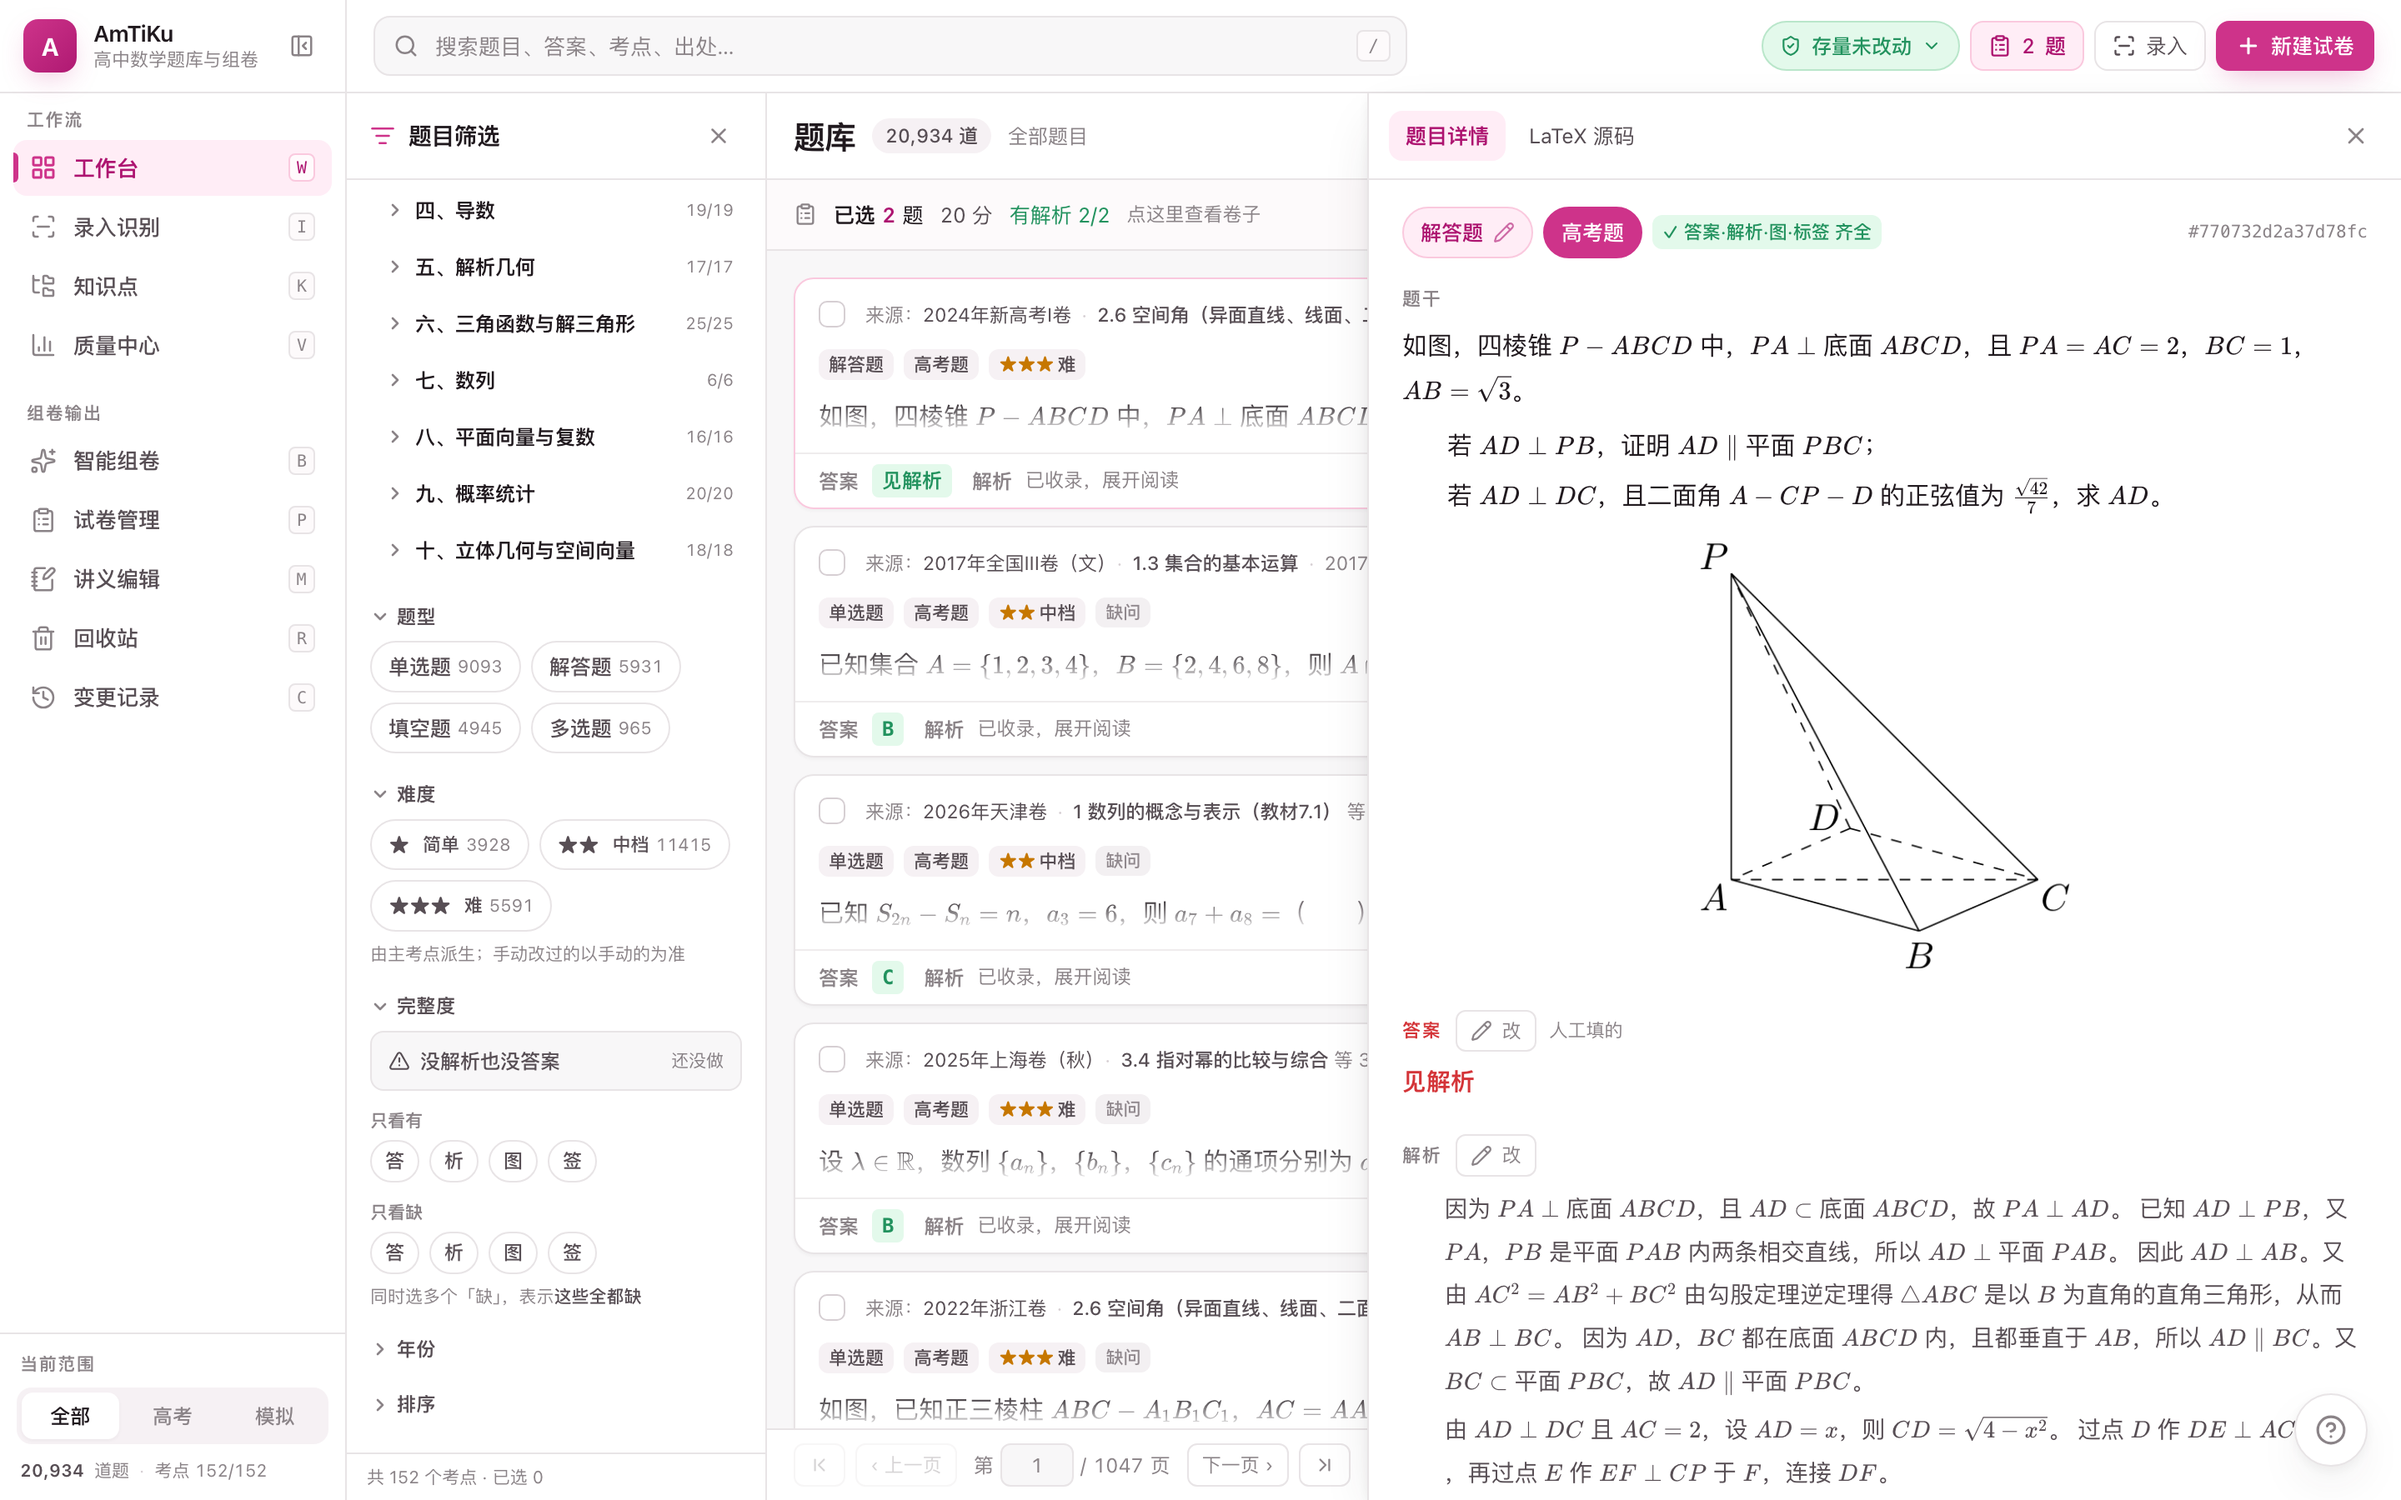
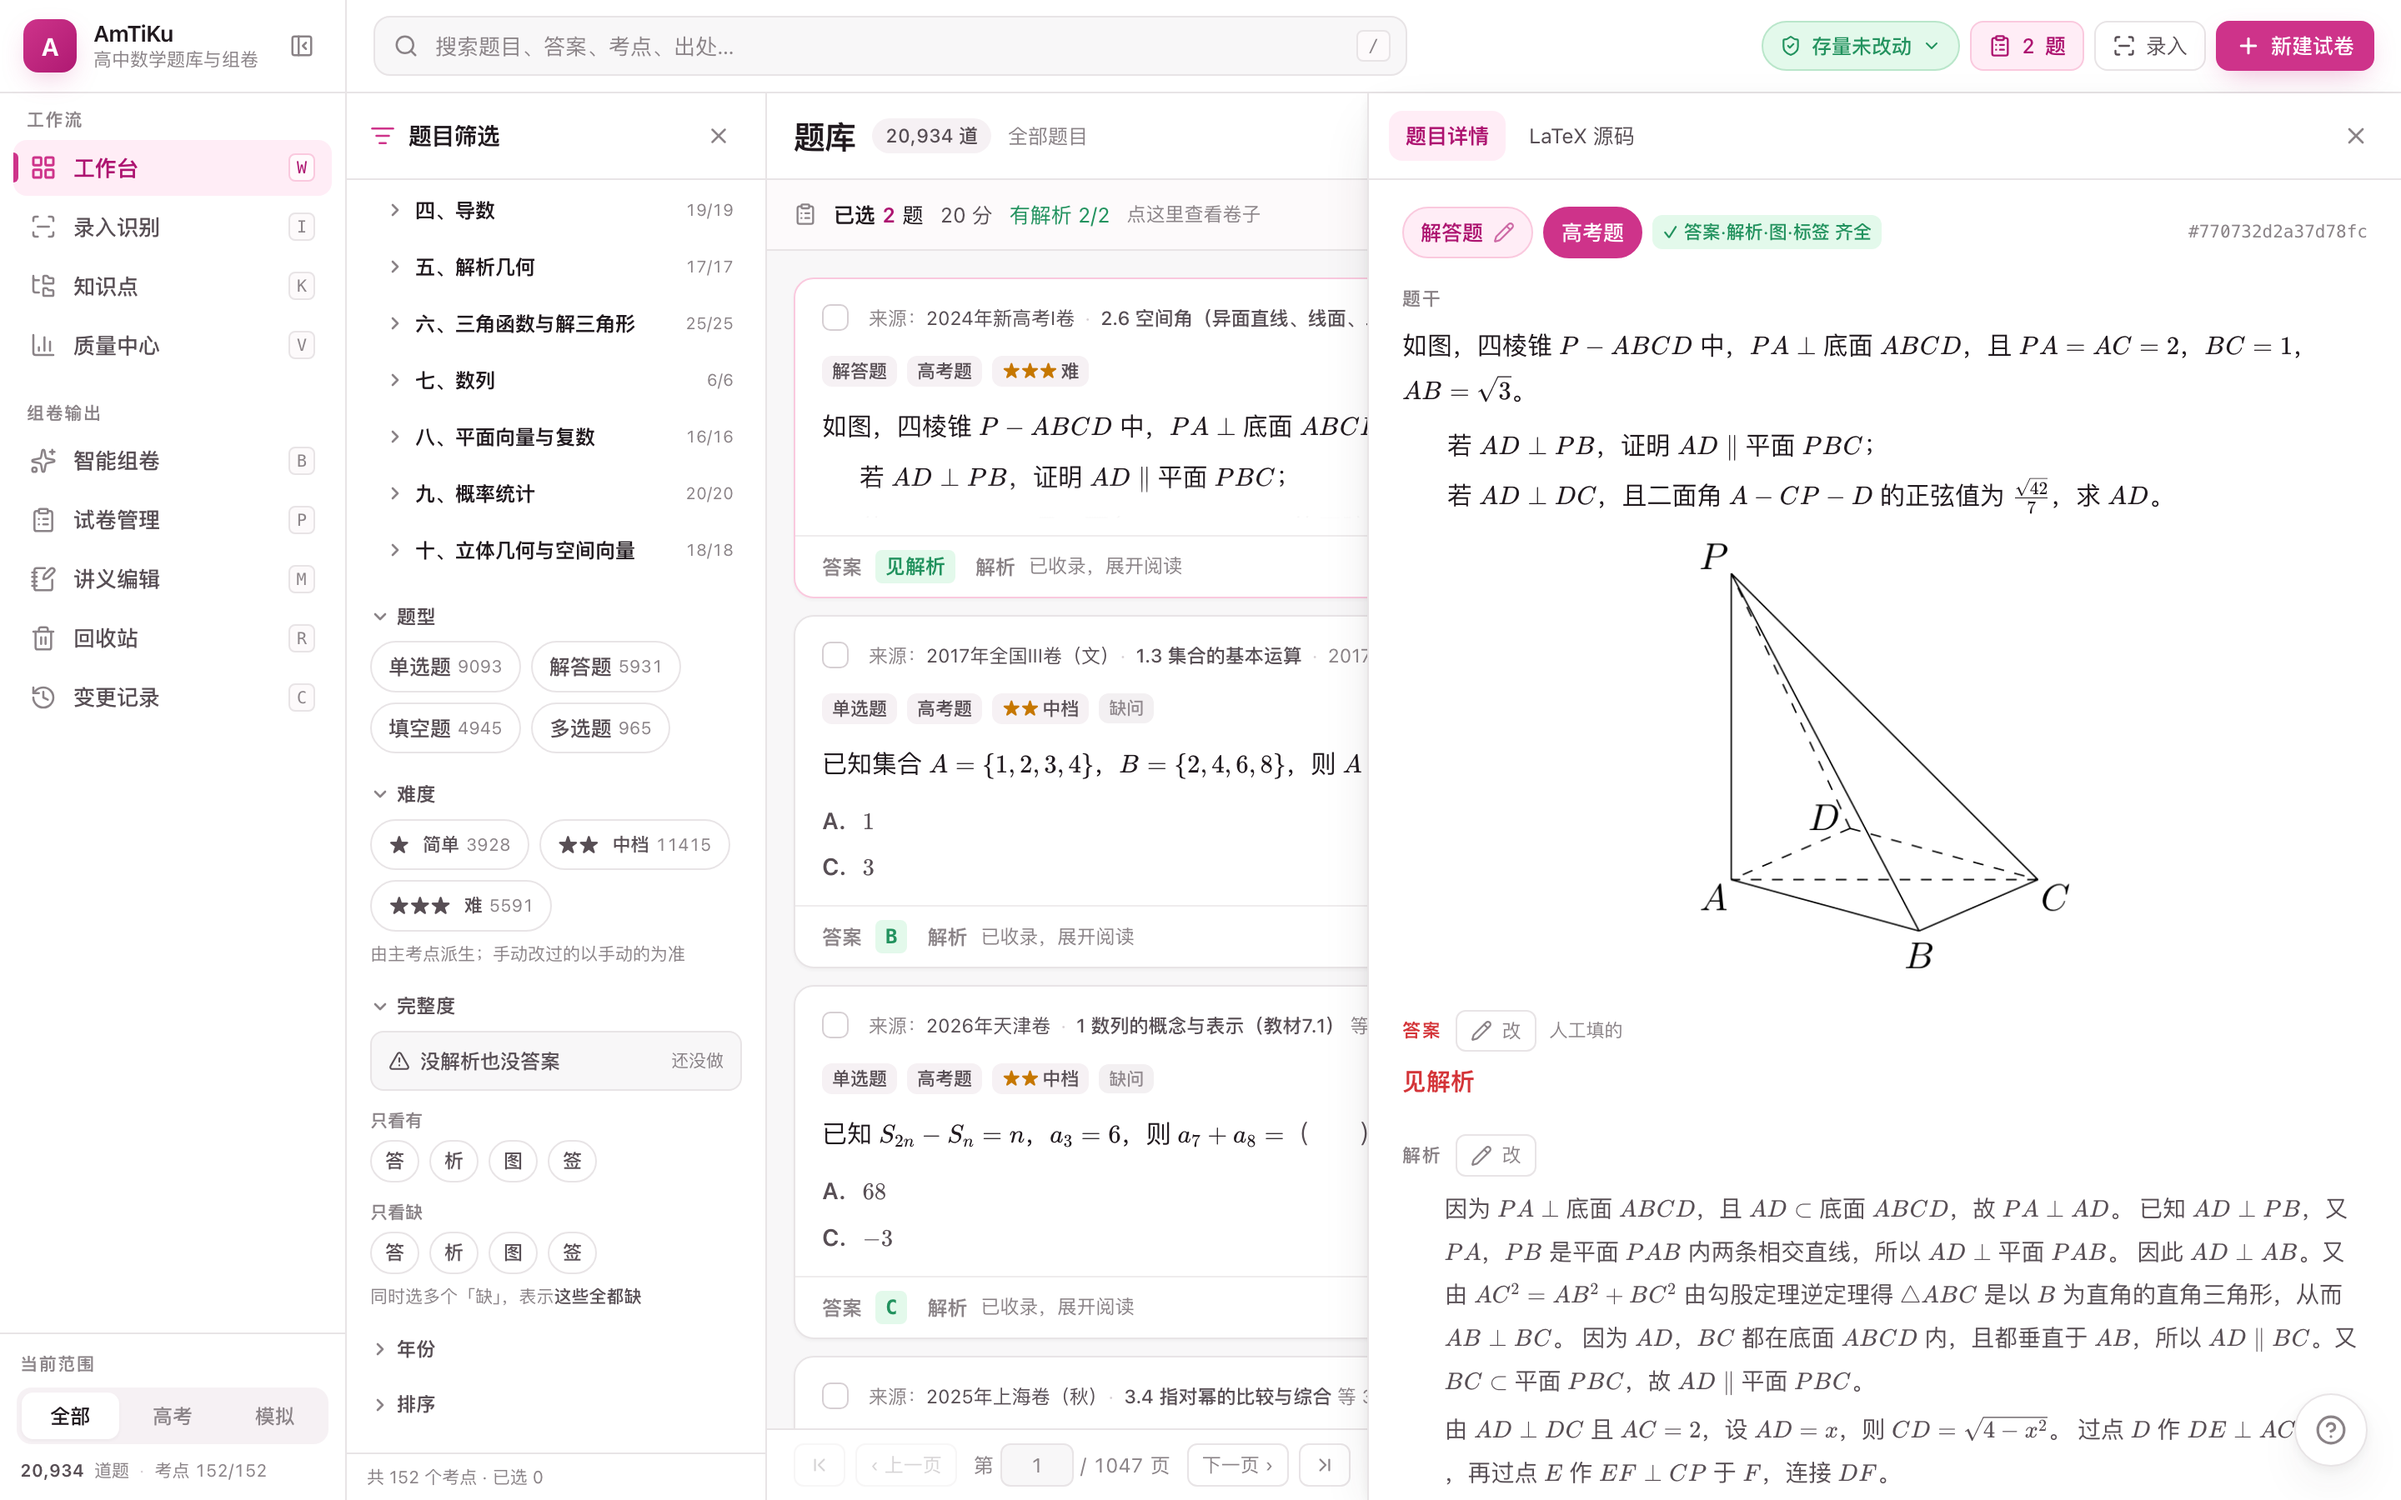
修：题干封顶的渐隐是无条件画的，短题干看着像自带一层渐变
用户截图指出「题目感觉有渐变」。

根因：.q-clamp::after 那条 22px 白色渐隐（用来提示"下面还有内容"）是
**无条件画**的。而 max-h-[4.6em] 在内容更短时盒子就等于内容高，于是那 22px
盖在唯一一行的文字上，看着就像题目自带渐变。是 bug，不是设计。

改法：渐隐只在真被截断时才画（.q-clamp[data-over='1']::after），
data-over 由 JS 量 scrollHeight > clientHeight 得出。

量的坑（注释里写清了）：**KaTeX 是挂载之后才把公式画进去的**，内容长高了
但盒子被 max-height 钉死，ResizeObserver 根本不响——实测漏过一条
（29 vs 26 该显示却没显示）。所以三件事都要听：ResizeObserver（宽度变了）、
MutationObserver（KaTeX 后渲染）、document.fonts.ready（字体到位行高再变）。

验证（无头 Chrome 逐张量 DOM，10 张卡）：
- 四棱锥 P-ABCD：69/591 截断 → data-over=1，::after opacity=1
- 已知集合 A={1,2,3,4}：27/27 未截断 → data-over=0，opacity=0
- 2025 上海卷（秋）：54/54 未截断 → data-over=0，opacity=0
- 三者（实际截断 / data-over / 透明度）逐张一致，无一张误画；紧凑密度下同样一致
- tsc + build 全绿；amti.py accept 四层全绿（快照内容变化 0）

顺手：README 截图脚本加了"截图前先清 localStorage"——密度/面板开合/抽屉宽度
都记在那儿，上次探测留下的 dense=1 会让截图悄悄变成紧凑卡片（这次踩了，重拍）。

Changed region(s): [[0.3438, 0.1867, 0.5625, 0.9644]]

diff --git a/web/src/app/QuestionCard.tsx b/web/src/app/QuestionCard.tsx
@@ -13,13 +13,45 @@
  *  ④ 折叠的答案与解析：不展开也看得见"答案 C / 有解析"，
  *     展开才去拉全量（答案与解析的块 IR 列表接口不带，见 server.py 的说明）
  */
-import { useEffect, useState } from 'react'
+import { useEffect, useRef, useState } from 'react'
 import { Plus, BookPlus, Check, ChevronDown, Flame, TriangleAlert, Loader2, Maximize2 } from 'lucide-react'
 import type { Q } from '@/lib/types'
 import { renderBlocks } from '@/lib/render'
 import { api, reportErr } from '@/lib/api'
 import { DIFF_STARS } from '@/lib/display'
 import { Flags } from '@/app/ui'
+
+/** 题干到底有没有被截断。
+ *
+ *  封顶高度的渐隐**不能无条件画**：一行就放得下的短题干也会被那 22px 盖住，
+ *  看起来就像"题目自带一层渐变"。所以要真的量一下 scrollHeight。
+ *  依赖里带 `q.key` / `dense`：题换了、密度换了都得重算
+ *  （ResizeObserver 只在盒子尺寸变时触发，而"被截断"恰恰是不变尺寸的那种）。 */
+function useClamped(deps: unknown[]) {
+  const ref = useRef<HTMLDivElement>(null)
+  const [over, setOver] = useState(false)
+  useEffect(() => {
+    const el = ref.current
+    if (!el) return
+    const check = () => setOver(el.scrollHeight > el.clientHeight + 2)
+    check()
+
+    // **三件都要听**，少一件就会漏：
+    //  · ResizeObserver —— 窗口/面板宽度变了
+    //  · MutationObserver —— KaTeX 是**挂载之后**才把公式画进去的，
+    //    内容长高了但盒子被 max-height 钉死，ResizeObserver 根本不会响
+    //    （实测漏掉过：量出来 29 vs 26 该显示渐隐，却没显示）
+    //  · fonts.ready —— 字体到位后行高会再变一次
+    const ro = new ResizeObserver(check)
+    ro.observe(el)
+    const mo = new MutationObserver(check)
+    mo.observe(el, { childList: true, subtree: true, characterData: true })
+    document.fonts?.ready.then(check).catch(() => {})
+    return () => { ro.disconnect(); mo.disconnect() }
+    // eslint-disable-next-line react-hooks/exhaustive-deps
+  }, deps)
+  return [ref, over] as const
+}
 
 /** 答案的**纯文字**预览。只认两种情况，其余一律让用户展开看：
  *  选择题的字母（`C` / `ABD`）、解答题的「见解析」。
@@ -67,6 +99,9 @@ export default function Card({
    * 勾选和看题是两件事，不该互斥。
    */
   const pick = () => { onOpen(); if (selectMode) onToggle() }
+
+  // 题干封顶后的渐隐只在**真截断**时才画（见 useClamped 的注释）
+  const [clampRef, clamped] = useClamped([q.key, dense])
 
   const ans = answerPreview(q.answer)
   const hasSol = !!q.flags['解析']
@@ -171,7 +206,8 @@ export default function Card({
       {/* ── ③ 题干 + 选项 ── */}
       <div className={`${dense ? 'px-3.5 pt-2' : 'px-4 pt-2.5'}`}>
         <div className="q-stem q-compact text-[14.5px] text-ink">
-          <div className={`q-clamp ${dense ? 'max-h-[1.7em]' : 'max-h-[4.6em]'}`}>
+          <div ref={clampRef} data-over={clamped ? '1' : '0'}
+            className={`q-clamp ${dense ? 'max-h-[1.7em]' : 'max-h-[4.6em]'}`}>
             {renderBlocks(q.blocks?.stem)}
           </div>
         </div>

diff --git a/web/src/index.css b/web/src/index.css
@@ -185,14 +185,21 @@ body {
 .latex-err { color: oklch(0.55 0.2 25); font-size: 12px; }
 
 /* 列表卡里的题目：**封顶高度 + 渐隐**。
-   题干长短差十倍，不封顶的话一屏只看得到两道题，
-   关键是封顶后要能看出"下面还有"，所以配一条白色渐隐。 */
+   题干长短差十倍，不封顶的话一屏只看得到两道题；
+   封顶之后要能看出"下面还有"，所以配一条白色渐隐。
+
+   **渐隐只在真被截断时才画**（`data-over="1"`，由 JS 量 scrollHeight 决定）：
+   无条件画的话，一行就放得下的短题干也会被这 22px 盖住最后一行，
+   看起来就像"题目自带一层渐变"——那是 bug，不是设计。 */
 .q-clamp { position: relative; overflow: hidden; }
 .q-clamp::after {
   content: ''; position: absolute; left: 0; right: 0; bottom: 0; height: 22px;
   background: linear-gradient(to bottom, transparent, var(--color-surface));
   pointer-events: none;
+  opacity: 0;                       /* 默认不画 */
+  transition: opacity 160ms var(--ease-soft);
 }
+.q-clamp[data-over='1']::after { opacity: 1; }
 
 /* ══ 动效 ══════════════════════════════════════════════════════════
    库里两万多道题，筛选、翻页、编译都是几百毫秒到几十秒的事。

diff --git a/CHANGELOG.md b/CHANGELOG.md
@@ -5,6 +5,39 @@
 
 ---
 
+## v1.6.5 · 修：题干封顶的渐隐**无条件画**，短题干看着像自带一层渐变（2026-09-23）
+
+**现象**（用户截图指出：「题目感觉有渐变」）：一行就放得下的短题干，
+文字底下也糊着一层白雾。
+
+**根因**：`.q-clamp::after` 是一条 22px 的白色渐隐，用来提示"下面还有内容"。
+它是**无条件画**的——而 `max-h-[4.6em]` 在内容更短时盒子就等于内容高，
+于是那 22px 盖在唯一一行的文字上，看着就像题目自带渐变。这是 bug，不是设计。
+
+**改法**：渐隐只在**真被截断**时才画（`.q-clamp[data-over='1']::after`），
+`data-over` 由 JS 量 `scrollHeight > clientHeight` 得出。
+
+量的地方有个坑，代码里写了注释：**KaTeX 是挂载之后才把公式画进去的**，
+内容长高了但盒子被 `max-height` 钉死，`ResizeObserver` 根本不会响
+（实测漏过一条：量出来 29 vs 26 该显示渐隐却没显示）。
+所以三件事都要听 —— `ResizeObserver`（窗口/面板宽度变了）、
+`MutationObserver`（KaTeX 后渲染）、`document.fonts.ready`（字体到位后行高再变）。
+
+**验证**（无头 Chrome 逐张量 DOM）
+| 卡片 | clientHeight/scrollHeight | 实际截断 | data-over | ::after 透明度 |
+|---|---|---|---|---|
+| 四棱锥 P-ABCD… | 69 / 591 | 是 | 1 | 1 |
+| 已知集合 A={1,2,3,4}… | 27 / 27 | 否 | 0 | **0** |
+| 2025 上海卷（秋）… | 54 / 54 | 否 | 0 | **0** |
+| 2022 浙江卷 6 数列… | 27 / 29 | 否（差 2px，容差内） | 0 | **0** |
+
+10 张卡逐张核对：`over` 与 `data-over`、`::after` 透明度三者一致，无一张误画。
+紧凑密度下同样一致。`tsc + build` 全绿，`amti.py accept` 四层全绿。
+
+**顺手**：README 截图脚本加了「截图前先清 localStorage」——
+密度、面板开合、抽屉宽度都记在那儿，上一次探测留下的 `dense=1`
+会让截图悄悄变成紧凑卡片（这次就踩了，重拍了一遍）。
+
 ## v1.6.4 · 照成熟产品的做法补六处交互（2026-09-23）
 
 去翻了一批成熟产品/规范，挑出**确实适用于这个界面**的几条落地。每条都能说出出处，
